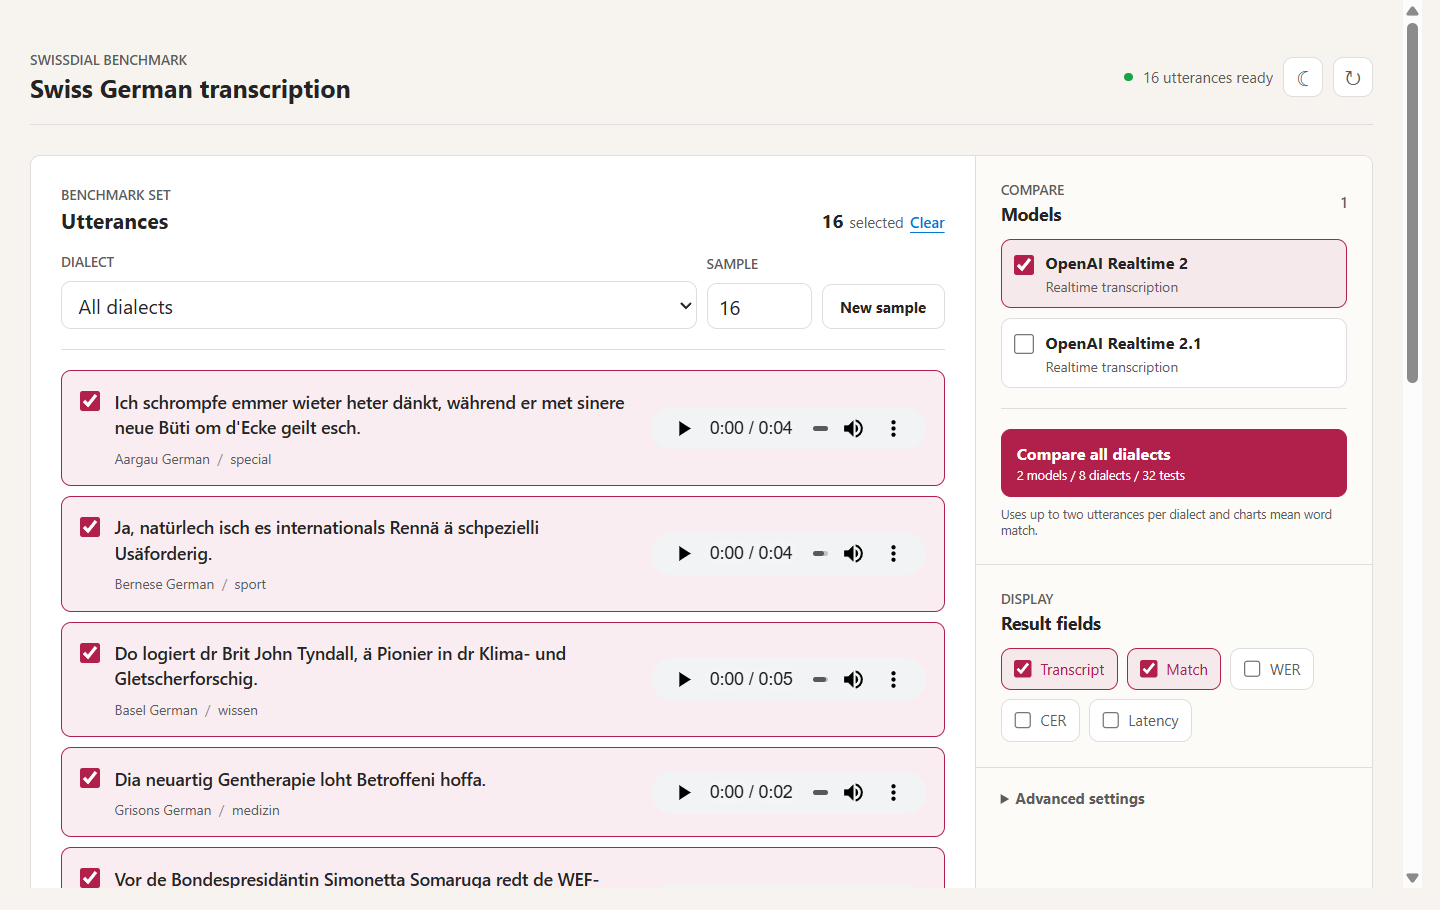
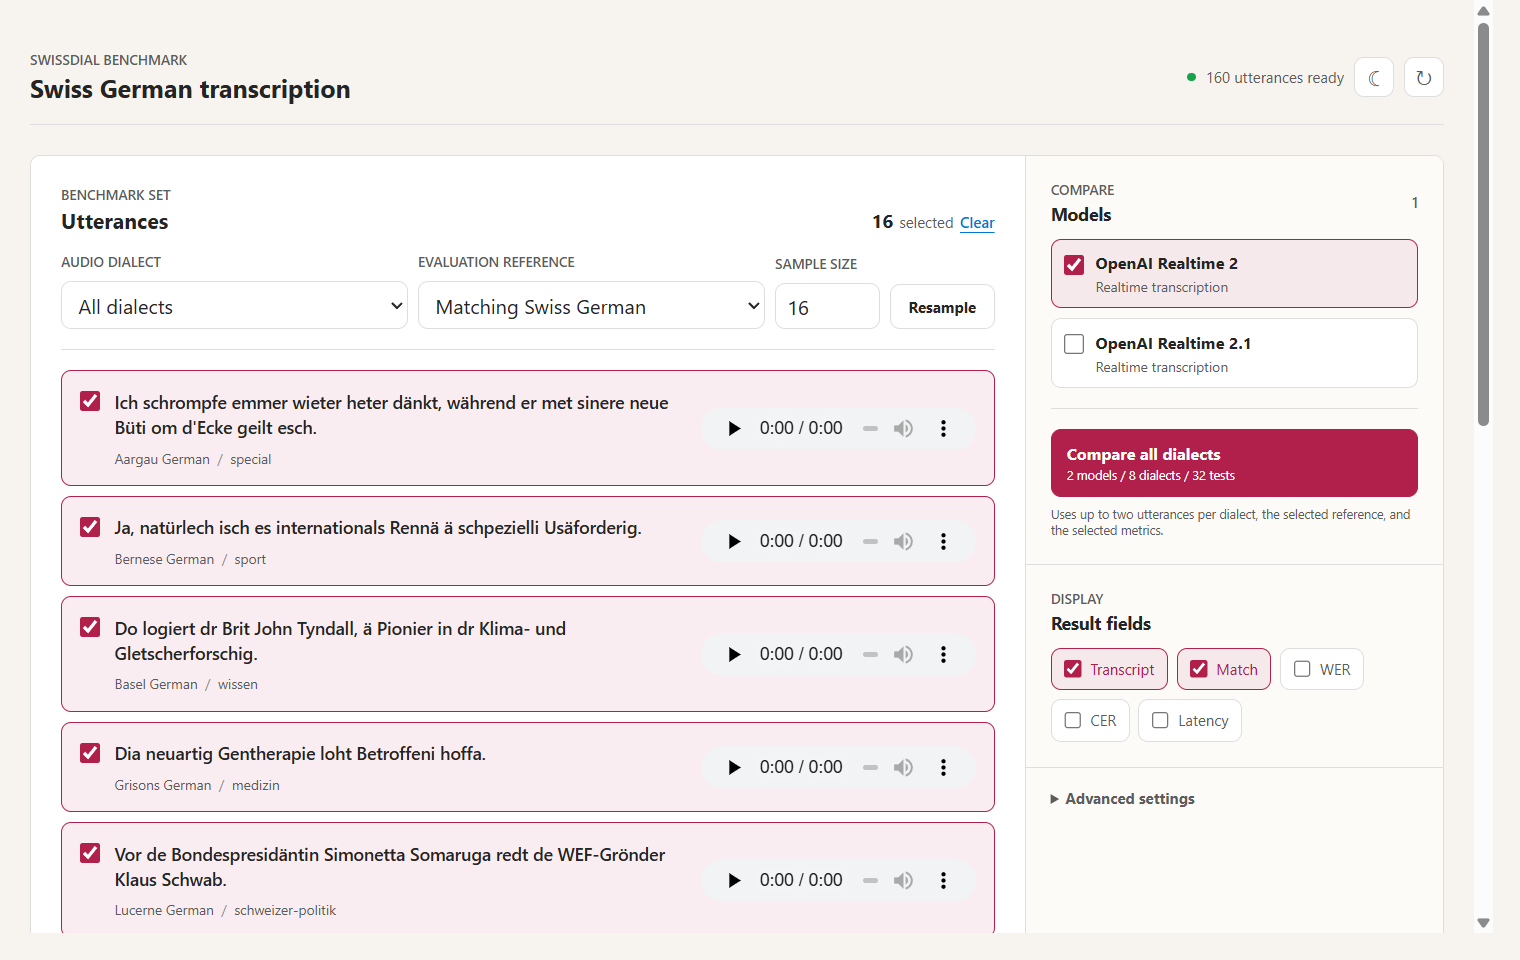
updates

diff --git a/frontend/minimal-app.js b/frontend/minimal-app.js
@@ -164,6 +164,12 @@ function itemCanRun(item) {
   return Boolean(item?.audio_available && (state.referenceMode !== 'standard-german' || itemReference(item)))
 }
 
+function syncSampleSizeToSelection() {
+  if (state.selectedItemIds.length) {
+    state.sampleSize = state.selectedItemIds.length
+  }
+}
+
 function availableDialects() {
   const dialects = new Map()
   for (const item of state.items) {
@@ -180,7 +186,7 @@ function filteredItems() {
 }
 
 function sampleCapacity() {
-  return Math.min(20, filteredItems().filter(itemCanRun).length)
+  return filteredItems().filter(itemCanRun).length
 }
 
 function updateSampleSize(value) {
@@ -258,7 +264,7 @@ function dialectComparisonControl() {
   const disabled = models.length !== dialectComparisonModelIds.length || dialectCount < 2 || isRunInProgress() || state.starting
   return `<div class="dialect-compare-control">
     <button type="button" data-action="compare-dialects" ${disabled ? 'disabled' : ''}><strong>Compare all dialects</strong><span>${models.length} models / ${dialectCount} dialects / ${taskCount} tests</span></button>
-    <small>Uses up to two utterances per dialect and charts mean word match.</small>
+    <small>Uses up to two utterances per dialect, the selected reference, and the selected metrics.</small>
   </div>`
 }
 
@@ -277,8 +283,8 @@ function sampleControls() {
   return `<div class="sample-controls">
     <label><span>Audio dialect</span><select data-dialect-filter><option value="all" ${state.selectedDialect === 'all' ? 'selected' : ''}>All dialects</option>${dialectOptions}</select></label>
     <label><span>Evaluation reference</span><select data-reference-mode><option value="dialect" ${state.referenceMode === 'dialect' ? 'selected' : ''}>Matching Swiss German</option><option value="standard-german" ${state.referenceMode === 'standard-german' ? 'selected' : ''}>High German</option></select></label>
-    <label class="sample-size"><span>Sample</span><input data-sample-size type="number" min="1" max="${Math.max(1, capacity)}" step="1" value="${Math.min(state.sampleSize, Math.max(1, capacity))}" ${capacity ? '' : 'disabled'}></label>
-    <button type="button" class="secondary-button" data-action="resample-items">New sample</button>
+    <label class="sample-size"><span>Sample size</span><input data-sample-size type="number" min="1" max="${Math.max(1, capacity)}" step="1" value="${Math.min(state.sampleSize, Math.max(1, capacity))}" ${capacity ? '' : 'disabled'}></label>
+    <button type="button" class="secondary-button" data-action="resample-items">Resample</button>
   </div>`
 }
 
@@ -301,9 +307,9 @@ function utteranceRows() {
     return `<article class="utterance-row ${selected ? 'selected' : ''} ${selectable ? '' : 'unavailable'}">
       <label class="utterance-select">
         <input type="checkbox" data-item-id="${escapeHtml(item.id)}" ${selected ? 'checked' : ''} ${selectable ? '' : 'disabled'}>
-        <span class="utterance-copy"><strong>${escapeHtml(utterance)}</strong><small><span>${escapeHtml(itemDialectName(item))}</span><span>${escapeHtml(referenceModeLabel())} reference</span>${topic}</small></span>
+        <span class="utterance-copy"><strong>${escapeHtml(utterance)}</strong><small><span>${escapeHtml(itemDialectName(item))}</span>${topic}</small></span>
       </label>
-      ${item.audio_available ? `<audio controls preload="metadata" src="${escapeHtml(audioUrl)}">Audio playback is not supported by this browser.</audio>` : '<span class="missing-audio">Audio unavailable</span>'}
+      ${item.audio_available ? `<audio controls preload="none" src="${escapeHtml(audioUrl)}">Audio playback is not supported by this browser.</audio>` : '<span class="missing-audio">Audio unavailable</span>'}
     </article>`
   }).join('')
 
@@ -428,13 +434,18 @@ function dialectComparisonChart(run) {
     .filter(([dialect]) => dialect)
     .sort(([left], [right]) => left.localeCompare(right))
   const availableMetrics = selectedResultMetrics().filter((metric) => chartMetricDefinitions[metric])
-  if (models.length < 2 || dialects.length < 2 || !availableMetrics.length) return ''
+  if (!models.length || !dialects.length || !availableMetrics.length) return ''
 
   const metric = availableMetrics.includes(state.chartMetric) ? state.chartMetric : availableMetrics[0]
   const definition = chartMetricDefinitions[metric]
+  const referenceLabel = referenceModeLabel(run.reference_mode)
   const chartDescription = metric === 'match'
-    ? `Higher bars indicate closer transcription to the ${referenceModeLabel(run.reference_mode)} reference.`
-    : definition.description
+    ? `Higher bars indicate closer transcription to the ${referenceLabel} reference.`
+    : metric === 'wer'
+      ? `Lower bars indicate fewer word-level errors against the ${referenceLabel} reference.`
+      : metric === 'cer'
+        ? `Lower bars indicate fewer character-level errors against the ${referenceLabel} reference.`
+        : definition.description
   const series = dialects.map(([dialect, dialectName]) => ({
     dialect,
     dialectName,
@@ -466,20 +477,39 @@ function dialectComparisonChart(run) {
     const bars = modelSeries.map(({ model, values, average }, index) => {
       const height = average === null ? 0 : Math.max(0, Math.min(100, average / scaleMaximum * 100))
       const valueLabel = average === null ? (isRunInProgress(run) ? 'Pending' : 'No score') : chartValue(average, definition.kind)
-      const accessibleLabel = `${model.label}, ${dialectName}, ${metricDefinitions[metric].label}: ${valueLabel}${values.length ? ` across ${values.length} utterances` : ''}`
-      return `<span class="chart-bar series-${index % 2} ${average === null ? 'pending' : ''}" tabindex="0" role="img" aria-label="${escapeHtml(accessibleLabel)}"><i class="chart-bar-fill" style="--bar-height:${height}%"></i><span class="chart-tooltip">${escapeHtml(model.label)}<strong>${escapeHtml(valueLabel)}</strong><small>${values.length ? `${values.length} utterances` : 'Waiting for results'}</small></span></span>`
+      const utteranceCount = `${values.length} ${values.length === 1 ? 'utterance' : 'utterances'}`
+      const accessibleLabel = `${model.label}, ${dialectName}, ${metricDefinitions[metric].label}: ${valueLabel}${values.length ? ` across ${utteranceCount}` : ''}`
+      return `<span class="chart-bar series-${index % 2} ${average === null ? 'pending' : ''}" tabindex="0" role="img" aria-label="${escapeHtml(accessibleLabel)}"><i class="chart-bar-fill" style="--bar-height:${height}%"></i><span class="chart-tooltip">${escapeHtml(model.label)}<strong>${escapeHtml(valueLabel)}</strong><small>${values.length ? utteranceCount : 'Waiting for results'}</small></span></span>`
     }).join('')
     return `<div class="chart-group"><div class="chart-bars">${bars}</div><span title="${escapeHtml(dialectName)}">${escapeHtml(dialect)}</span></div>`
   }).join('')
 
   return `<section class="dialect-chart" aria-labelledby="dialect-chart-title">
-    <div class="dialect-chart-heading"><div><span>Dialect comparison</span><h3 id="dialect-chart-title">${escapeHtml(definition.title)}</h3><p>${escapeHtml(chartDescription)}</p></div><div class="chart-heading-actions">${metricControls}<div class="chart-legend">${legend}</div></div></div>
+    <div class="dialect-chart-heading"><div><span>${models.length > 1 ? 'Model comparison' : 'Model results'}</span><h3 id="dialect-chart-title">${escapeHtml(definition.title)}</h3><p>${escapeHtml(chartDescription)}</p></div><div class="chart-heading-actions">${metricControls}<div class="chart-legend">${legend}</div></div></div>
     <div class="chart-scroll"><div class="chart-canvas">
       <div class="chart-scale" aria-hidden="true">${scaleLabels}</div>
       <div class="chart-grid" aria-hidden="true"><i></i><i></i><i></i><i></i><i></i></div>
       <div class="chart-groups" style="--dialect-count:${dialects.length}">${groups}</div>
     </div></div>
   </section>`
+}
+
+function runSetupDetails(run) {
+  const modelLabels = run.model_ids.map((modelId) => (
+    state.models.find((model) => model.id === modelId)?.label ?? modelId
+  ))
+  const parameterGroups = Object.entries(run.parameters ?? {}).flatMap(([modelId, parameters]) => {
+    const values = Object.entries(parameters ?? {})
+    if (!values.length) return []
+    const modelLabel = state.models.find((model) => model.id === modelId)?.label ?? modelId
+    return [`${modelLabel}: ${values.map(([name, value]) => `${name}=${value}`).join(', ')}`]
+  })
+  return `<details class="run-setup">
+    <summary>Run setup</summary>
+    <div><span>Models</span><strong>${escapeHtml(modelLabels.join(', '))}</strong></div>
+    <div><span>Prompt</span><p>${escapeHtml(run.prompt)}</p></div>
+    ${parameterGroups.length ? `<div><span>Parameters</span><p>${escapeHtml(parameterGroups.join(' / '))}</p></div>` : ''}
+  </details>`
 }
 
 function activeRunPanel() {
@@ -492,6 +522,12 @@ function activeRunPanel() {
   const showValidation = state.selectedMetrics.includes('validation')
   const metricHeaders = metrics.map((metric) => `<th>${metricHeader(metric)}</th>`).join('')
   const validationHeader = showValidation ? '<th>Model transcript</th>' : ''
+  const runReferenceMode = run.reference_mode ?? 'dialect'
+  const referenceHeader = `${referenceModeLabel(runReferenceMode)} reference`
+  const runDialects = [...new Set(run.item_ids.map((itemId) => itemDialect(itemById(itemId))).filter(Boolean))].sort()
+  const dialectSummary = runDialects.length === 1
+    ? itemDialectName(run.item_ids.map((itemId) => itemById(itemId)).find((item) => itemDialect(item) === runDialects[0]))
+    : `${runDialects.length} dialects (${runDialects.join(', ')})`
   const controlsDisabled = Boolean(state.runControlAction)
   const controls = run.status === 'paused'
     ? `<button type="button" class="secondary-button" data-action="resume-run" ${controlsDisabled ? 'disabled' : ''}>Resume</button><button type="button" class="danger-button" data-action="stop-run" ${controlsDisabled ? 'disabled' : ''}>Stop</button>`
@@ -511,15 +547,16 @@ function activeRunPanel() {
     ? `<div class="result-actions"><button type="button" class="secondary-button" data-action="reuse-run">Use this setup</button><a class="secondary-button" href="${apiBase}/api/runs/${encodeURIComponent(run.id)}/export.csv" download>Download CSV</a></div>`
     : ''
   const comparisonChart = dialectComparisonChart(run)
-    const runReferenceMode = run.reference_mode ?? 'dialect'
+  const setupDetails = runSetupDetails(run)
   return `<div class="result-summary">
       <div><span>Status</span><strong class="status-value ${escapeHtml(run.status)}">${escapeHtml(run.status)}</strong></div>
       <div><span>Completed</span><strong>${progress.completed} / ${progress.total}</strong></div>
+      <div><span>Audio</span><strong>${escapeHtml(dialectSummary || 'Unknown dialect')}</strong></div>
       <div><span>Reference</span><strong>${escapeHtml(referenceModeLabel(runReferenceMode))}</strong></div>
       ${metricSummary}
     </div>
-    ${progressPanel}${comparisonChart}${resultActions}
-    <div class="table-wrap"><table><thead><tr><th>Utterance</th><th>Model</th>${validationHeader}${metricHeaders}</tr></thead><tbody>${resultRows()}</tbody></table></div>`
+    ${setupDetails}${progressPanel}${comparisonChart}${resultActions}
+    <div class="table-wrap"><table><thead><tr><th>${escapeHtml(referenceHeader)}</th><th>Model</th>${validationHeader}${metricHeaders}</tr></thead><tbody>${resultRows()}</tbody></table></div>`
 }
 
 function historyRows() {
@@ -538,7 +575,7 @@ function historyRows() {
           ? rate(run.average_word_match_rate)
           : 'Open run'
     return `<button class="history-row" type="button" data-run-id="${escapeHtml(run.id)}">
-      <span class="history-primary"><strong>${run.model_ids.length} ${run.model_ids.length === 1 ? 'model' : 'models'} / ${run.item_ids.length} utterances</strong><small>${new Date(run.started_at).toLocaleString()}</small></span>
+      <span class="history-primary"><strong>${run.model_ids.length} ${run.model_ids.length === 1 ? 'model' : 'models'} / ${run.item_ids.length} utterances</strong><small>${new Date(run.started_at).toLocaleString()} / ${escapeHtml(referenceModeLabel(run.reference_mode))}</small></span>
       <span class="history-status ${escapeHtml(indicator.tone)}">${escapeHtml(indicator.label)}</span>
       <span class="history-metric"><small>${escapeHtml(metricDefinitions[preferredMetric]?.label ?? 'Result')}</small><strong>${value}</strong></span>
       <span class="history-count">${run.result_count ?? 0} / ${total}</span>
@@ -693,7 +730,13 @@ async function startDialectComparison() {
   state.selectedItemIds = items.map((item) => item.id)
   state.selectedDialect = 'all'
   state.sampleSize = items.length
-  if (!state.selectedMetrics.includes('match')) state.selectedMetrics = [...state.selectedMetrics, 'match']
+  const chartMetrics = selectedResultMetrics().filter((metric) => chartMetricDefinitions[metric])
+  if (!chartMetrics.length) {
+    state.selectedMetrics = [...state.selectedMetrics, 'match']
+    state.chartMetric = 'match'
+  } else if (!chartMetrics.includes(state.chartMetric)) {
+    state.chartMetric = chartMetrics[0]
+  }
   state.message = `Preparing ${models.length * items.length} dialect comparison tests`
   render()
   await startRun()
@@ -747,10 +790,13 @@ async function saveInstructionPreset() {
 function reuseActiveRun() {
   if (!state.activeRun) return
   const availableModelIds = new Set(state.models.map((model) => model.id))
-  const availableItemIds = new Set(state.items.filter((item) => item.audio_available).map((item) => item.id))
   state.selectedModelIds = state.activeRun.model_ids.filter((modelId) => availableModelIds.has(modelId))
   state.referenceMode = state.activeRun.reference_mode ?? 'dialect'
+  const availableItemIds = new Set(state.items.filter(itemCanRun).map((item) => item.id))
   state.selectedItemIds = state.activeRun.item_ids.filter((itemId) => availableItemIds.has(itemId))
+  const selectedDialects = [...new Set(state.selectedItemIds.map((itemId) => itemDialect(itemById(itemId))).filter(Boolean))]
+  state.selectedDialect = selectedDialects.length === 1 ? selectedDialects[0] : 'all'
+  syncSampleSizeToSelection()
   state.parameterOverrides = { ...state.parameterOverrides, ...state.activeRun.parameters }
   state.prompt = state.activeRun.prompt
   state.message = `Restored ${state.selectedItemIds.length} utterances and ${state.selectedModelIds.length} models`
@@ -826,6 +872,7 @@ app.addEventListener('change', (event) => {
     state.selectedItemIds = target.checked
       ? [...state.selectedItemIds, target.dataset.itemId]
       : state.selectedItemIds.filter((id) => id !== target.dataset.itemId)
+    syncSampleSizeToSelection()
     render()
   }
   if (target.matches('[data-metric-id]')) {
@@ -845,14 +892,21 @@ app.addEventListener('change', (event) => {
   }
   if (target.matches('[data-reference-mode]')) {
     const previousMode = state.referenceMode
+    const previousSelectionCount = state.selectedItemIds.length
     state.referenceMode = target.value
     if (state.prompt === defaultPrompt || state.prompt === highGermanPrompt) {
       state.prompt = state.referenceMode === 'standard-german' ? highGermanPrompt : defaultPrompt
     }
     state.sampleRound = 0
-    selectSample()
-    state.message = `${referenceModeLabel()} selected for display and scoring`
-    if (previousMode !== state.referenceMode) state.itemLimit = 5
+    const eligibleItemIds = new Set(filteredItems().filter(itemCanRun).map((item) => item.id))
+    state.selectedItemIds = state.selectedItemIds.filter((itemId) => eligibleItemIds.has(itemId))
+    if (previousSelectionCount && !state.selectedItemIds.length) selectSample()
+    syncSampleSizeToSelection()
+    const removedCount = previousSelectionCount - state.selectedItemIds.length
+    state.message = removedCount > 0
+      ? `${referenceModeLabel()} selected; ${removedCount} utterance${removedCount === 1 ? '' : 's'} lacked this reference`
+      : `${referenceModeLabel()} selected for display and scoring`
+    if (previousMode !== state.referenceMode && removedCount > 0) state.itemLimit = 5
     render()
   }
   if (target.matches('[data-sample-size]')) {

diff --git a/frontend/minimal.css b/frontend/minimal.css
@@ -701,6 +701,48 @@ main {
   text-transform: capitalize;
 }
 
+.run-setup {
+  padding: 0 20px;
+  border-bottom: 1px solid var(--cp-border);
+  background: var(--cp-surface-soft);
+}
+
+.run-setup summary {
+  padding: 11px 0;
+  color: var(--cp-text-muted);
+  font-size: 11px;
+  font-weight: 650;
+  cursor: pointer;
+}
+
+.run-setup[open] {
+  padding-bottom: 14px;
+}
+
+.run-setup > div {
+  display: grid;
+  grid-template-columns: 90px minmax(0, 1fr);
+  gap: 12px;
+  margin-top: 8px;
+}
+
+.run-setup span {
+  color: var(--cp-text-muted);
+  font-size: 10px;
+  font-weight: 600;
+  text-transform: uppercase;
+}
+
+.run-setup strong,
+.run-setup p {
+  margin: 0;
+  color: var(--cp-text);
+  font-size: 11px;
+  font-weight: 500;
+  line-height: 1.45;
+  overflow-wrap: anywhere;
+}
+
 .status-value.completed {
   color: var(--cp-success);
 }

diff --git a/frontend/index.html b/frontend/index.html
@@ -15,11 +15,11 @@
         document.documentElement.setAttribute("data-theme", theme);
       })();
     </script>
-    <link rel="stylesheet" href="/minimal.css?v=4" />
+    <link rel="stylesheet" href="/minimal.css?v=5" />
     <title>Swiss German Transcription Benchmark</title>
   </head>
   <body>
     <main id="app" aria-live="polite">Loading Swiss German transcription benchmark...</main>
-    <script src="/minimal-app.js?v=4" defer></script>
+    <script src="/minimal-app.js?v=7" defer></script>
   </body>
 </html>

diff --git a/scripts/import_swissdial_archive.py b/scripts/import_swissdial_archive.py
@@ -13,7 +13,7 @@ import shutil
 import zipfile
 
 
-DEFAULT_SAMPLE_SIZE = 16
+DEFAULT_CATALOG_SIZE = 160
 DEFAULT_SAMPLE_SEED = 42
 DIALECT_NAMES = {
     "ag": "Aargau German",
@@ -39,10 +39,15 @@ def parse_arguments() -> argparse.Namespace:
     )
     parser.add_argument("--overwrite", action="store_true", help="Replace existing imported clip files")
     parser.add_argument(
+        "--catalog-size",
         "--sample-size",
+        dest="catalog_size",
         type=int,
-        default=DEFAULT_SAMPLE_SIZE,
-        help=f"Number of clips to import, balanced by dialect; 0 imports all (default: {DEFAULT_SAMPLE_SIZE})",
+        default=DEFAULT_CATALOG_SIZE,
+        help=(
+            "Number of clips made available to the app, balanced by dialect; "
+            f"0 imports all (default: {DEFAULT_CATALOG_SIZE})"
+        ),
     )
     parser.add_argument(
         "--dialects",
@@ -107,7 +112,7 @@ def import_official_dataset(
     dataset_dir: Path,
     output_dir: Path,
     overwrite: bool = False,
-    sample_size: int = DEFAULT_SAMPLE_SIZE,
+    catalog_size: int = DEFAULT_CATALOG_SIZE,
     dialects: list[str] | None = None,
     seed: int = DEFAULT_SAMPLE_SEED,
 ) -> int:
@@ -147,7 +152,7 @@ def import_official_dataset(
             candidates.append((audio_path, sentence))
         candidates_by_dialect[dialect] = candidates
 
-    selected = _balanced_sample(candidates_by_dialect, sample_size, seed)
+    selected = _balanced_sample(candidates_by_dialect, catalog_size, seed)
     if not selected:
         raise ValueError("No SwissDial audio files with matching Swiss German transcripts were found.")
 
@@ -243,7 +248,7 @@ def main() -> None:
             arguments.source,
             arguments.output_dir,
             arguments.overwrite,
-            arguments.sample_size,
+            arguments.catalog_size,
             arguments.dialects,
             arguments.seed,
         )

diff --git a/backend/tests/test_importer.py b/backend/tests/test_importer.py
@@ -43,7 +43,7 @@ class SwissDialImporterTests(unittest.TestCase):
             count = IMPORTER.import_official_dataset(
                 dataset_dir,
                 output_dir,
-                sample_size=4,
+                catalog_size=4,
                 dialects=["ag", "be"],
                 seed=7,
             )

diff --git a/README.md b/README.md
@@ -15,7 +15,7 @@ The backend uses the Python [Microsoft Agent Framework](https://learn.microsoft.
 ## What It Does
 
 - Reads editable Microsoft Foundry deployment definitions from `config/models.json`.
-- Imports a balanced sample from the official extracted ETH SwissDial 1.1 dataset into an ignored `data/swissdial` runtime directory. Legacy TSV ZIP exports remain supported.
+- Imports a balanced 160-clip catalog from the official extracted ETH SwissDial 1.1 dataset into an ignored `data/swissdial` runtime directory. Legacy TSV ZIP exports remain supported.
 - Streams each imported test clip locally in the browser beside its reference utterance.
 - Separates the recording dialect filter from the evaluation reference, allowing scoring against the matching Swiss German transcript or its High German parallel text.
 - Lets evaluators choose any model-by-clip matrix and deployment-specific parameters.
@@ -76,13 +76,13 @@ The repository does not include ETH SwissDial media. Download [SwissDial 1.1 fro
 
   Edit each `deployment` value in `config/models.json` so it exactly matches a deployment in your Azure resource. The checked-in registry contains Realtime 2 and Realtime 2.1 entries as configuration examples; it does not provision those deployments.
 
-3. Download and extract [SwissDial 1.1](https://mtc.ethz.ch/publications/open-source/swiss-dial.html), then import its directory. The default is a deterministic 16-clip sample balanced across all eight dialects.
+3. Download and extract [SwissDial 1.1](https://mtc.ethz.ch/publications/open-source/swiss-dial.html), then import its directory. The default is a deterministic 160-clip catalog balanced across all eight dialects; the UI initially selects a 16-clip working sample from that catalog.
 
    ```powershell
   ./.venv/Scripts/python.exe scripts/import_swissdial_archive.py "C:\path\to\data1.1"
    ```
 
-  Use `--sample-size 20`, `--dialects be zh`, or `--seed 7` to change the bounded sample. A sample size of `0` imports every matching clip. The importer writes only the selected audio and `data/swissdial/manifest.jsonl`; both are ignored by Git. In the UI, choose all dialects or one dialect and select or resample 1-20 imported clips.
+  Use `--catalog-size 320`, `--dialects be zh`, or `--seed 7` to change the local catalog. A catalog size of `0` imports every matching clip, which requires roughly 9.5 GB for SwissDial 1.1. The legacy `--sample-size` spelling remains an alias for `--catalog-size`. The importer writes only cataloged audio and `data/swissdial/manifest.jsonl`; both are ignored by Git. In the UI, choose all dialects or one dialect and select or resample up to the full imported catalog.
 
 4. Start the API in one terminal.
 
@@ -148,6 +148,8 @@ Use **Audio dialect** to choose recordings from one canton or all available dial
 The UI also exposes **Word Match**, calculated as $\max(0, 1 - \text{WER})$. It gives a direct percentage where $100\%$ means the normalized word sequence exactly matched the reference. It is not a semantic similarity score: dialectal paraphrases or alternate spellings can still lower the value. Each row keeps the true reference utterance next to the actual model response so the score can be inspected in context.
 
 Use **Compare all dialects** in the model panel to select both Realtime deployments and queue a balanced 32-test run over the default 16-utterance corpus. While results arrive, the run view groups the active selected metric by dialect in a vertical bar chart. When several numeric result fields are selected, switch the chart among Match, WER, CER, and latency. Hover or focus a bar for the exact model, dialect, value, and scored utterance count.
+
+The same chart is shown for ordinary runs with a single selected model, including runs limited to one dialect.
 
 The run-history overview aggregates all persisted runs into total runs, successful results versus all results, mean Match, and mean latency. Each individual history row includes its task completion ratio, Match, WER, mean latency, and a status-quality indicator. Indicators prioritize active/stopped/error states, then classify completed scored runs as **Strong match** ($\geq 85\%$), **Review** ($60\%-85\%$), or **Low match** ($< 60\%$).
 
